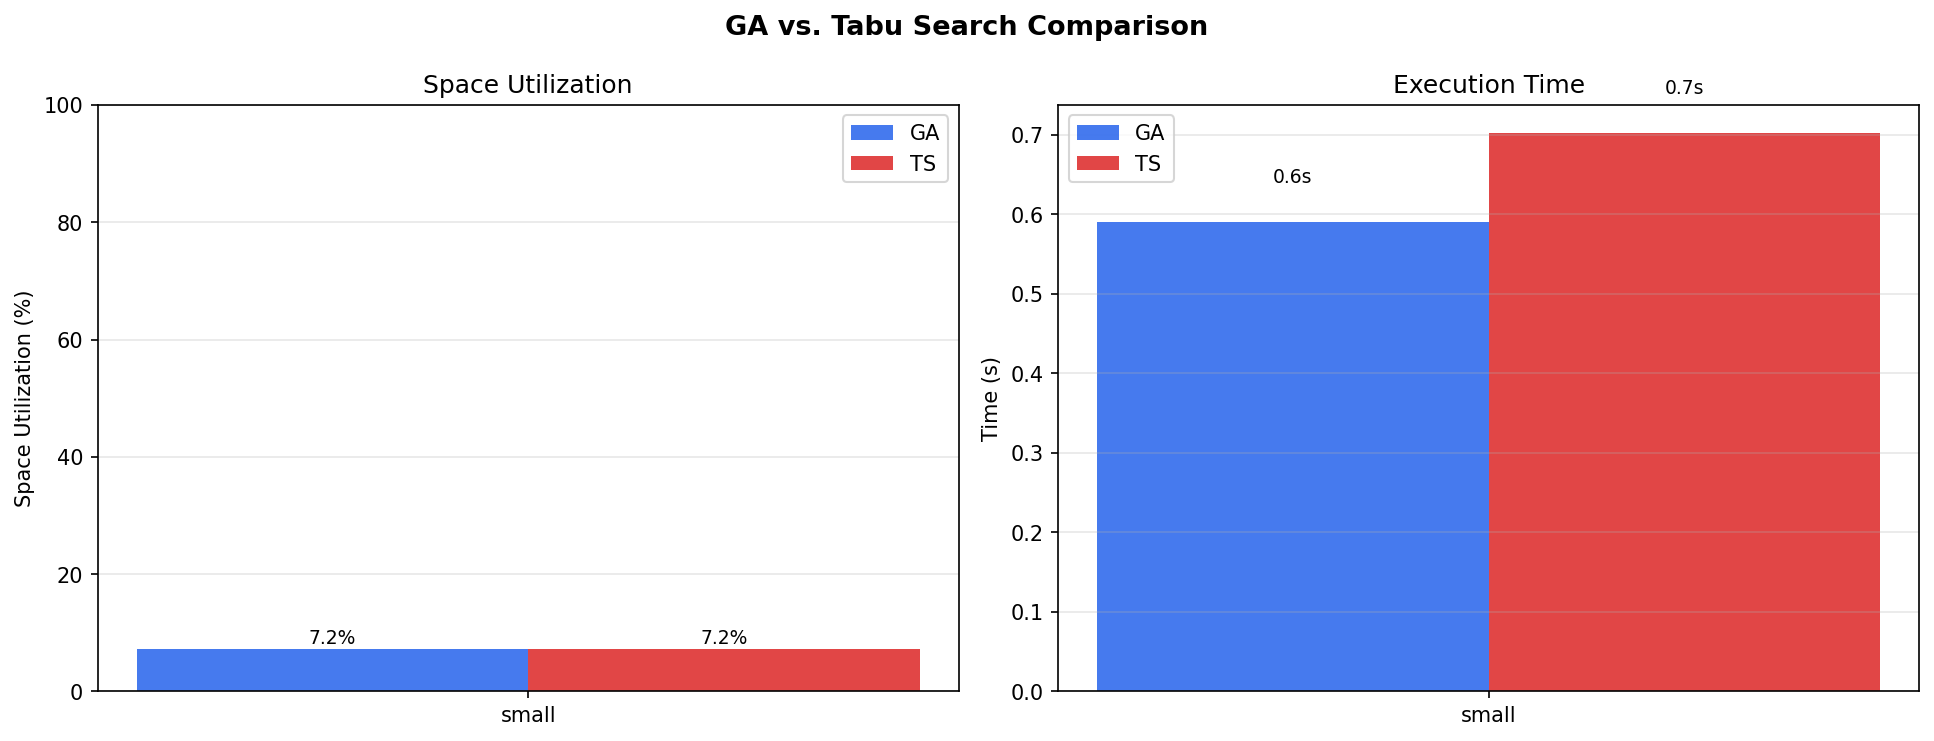
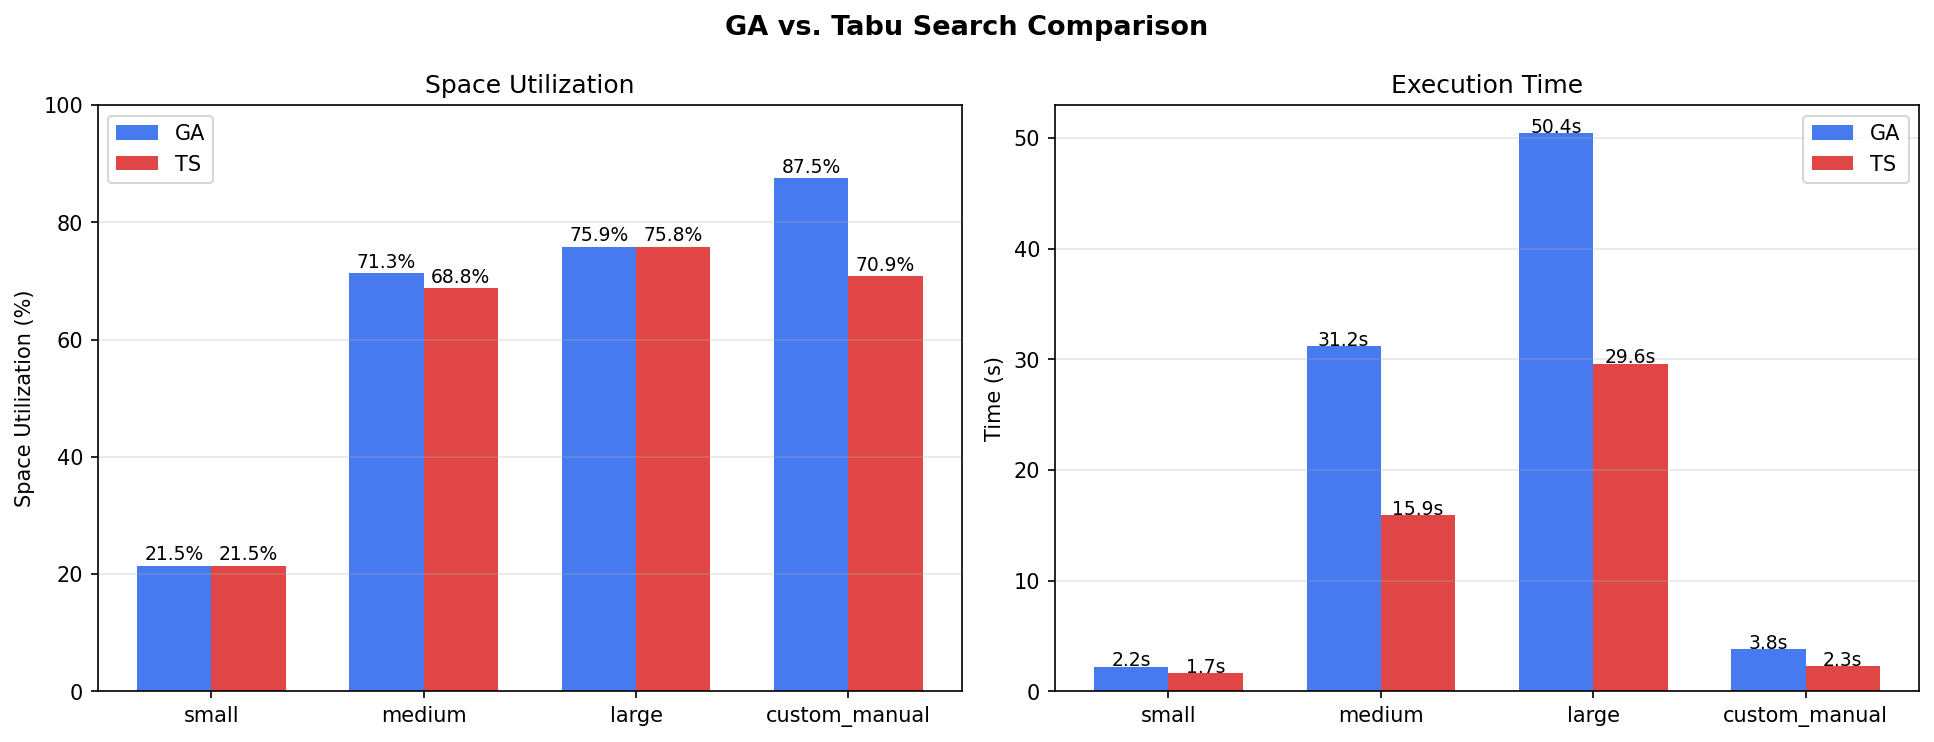
Modificari finale

diff --git a/main.py b/main.py
@@ -5,61 +5,72 @@ from tabu_search import tabu_search
 from feasibility import check_feasibility, print_feasibility_report
 from visualizer import plot_solution_3d, plot_convergence, plot_comparison_bars
 
-def main():
-    dataset_name = "small"
+DATASETS_TO_RUN = ["small", "medium", "large", "custom_manual"]
+
+def run_dataset(dataset_name: str) -> dict:
     boxes = DATASETS[dataset_name]
-    
-    print(f"=== Starting Evaluation for Dataset: {dataset_name} ===")
+    print(f"\n{'='*50}")
+    print(f"=== Dataset: {dataset_name} ({len(boxes)} cutii) ===")
+    print(f"{'='*50}")
 
     print("\n[1] Running Genetic Algorithm (GA)...")
     ga_start = time.time()
     ga_solution, ga_history = genetic_algorithm(
-        boxes=boxes, 
-        container=CONTAINER, 
-        pop_size=40,          
-        n_generations=50,
+        boxes=boxes,
+        container=CONTAINER,
+        pop_size=80,
+        n_generations=150,
         verbose=True
     )
     ga_duration = time.time() - ga_start
-    
+
     ga_report = check_feasibility(ga_solution.placements, boxes, CONTAINER)
     print_feasibility_report(ga_report)
 
     print("\n[2] Running Tabu Search (TS)...")
     ts_start = time.time()
     ts_solution, ts_history = tabu_search(
-        boxes=boxes, 
-        container=CONTAINER, 
-        n_iterations=80,      
+        boxes=boxes,
+        container=CONTAINER,
+        n_iterations=300,
         verbose=True
     )
     ts_duration = time.time() - ts_start
-    
+
     ts_report = check_feasibility(ts_solution.placements, boxes, CONTAINER)
     print_feasibility_report(ts_report)
 
-    print("\n=> Displaying 3D Container Plot...")
-    plot_solution_3d(ga_solution.placements, CONTAINER, title=f"GA Solution (Dataset: {dataset_name})")
+    print(f"\n=> Displaying 3D Container Plot for {dataset_name}...")
+    plot_solution_3d(
+        ga_solution.placements, CONTAINER,
+        title=f"GA Solution (Dataset: {dataset_name})",
+        save_path=f"plot3d_{dataset_name}.png"
+    )
 
-    performance_results = {
-        dataset_name: {
-            "n_boxes": len(boxes),
-            "ga": {
-                "history": ga_history,
-                "space_util": ga_solution.fitness * 100,
-                "time": round(ga_duration, 3)
-            },
-            "ts": {
-                "history": ts_history,
-                "space_util": ts_solution.fitness * 100,
-                "time": round(ts_duration, 3)
-            }
+    return {
+        "n_boxes": len(boxes),
+        "ga": {
+            "history":    ga_history,
+            "space_util": ga_solution.fitness * 100,
+            "time":       round(ga_duration, 3)
+        },
+        "ts": {
+            "history":    ts_history,
+            "space_util": ts_solution.fitness * 100,
+            "time":       round(ts_duration, 3)
         }
     }
-    
+
+
+def main():
+    performance_results = {}
+
+    for dataset_name in DATASETS_TO_RUN:
+        performance_results[dataset_name] = run_dataset(dataset_name)
+
     print("\n=> Displaying Convergence Plot...")
     plot_convergence(performance_results)
-    
+
     print("\n=> Displaying Metric Comparison Bars...")
     plot_comparison_bars(performance_results)
 

diff --git a/data_generator.py b/data_generator.py
@@ -34,18 +34,25 @@ def print_dataset_summary(name: str, boxes: List[Box], container: Container) -> 
 CONTAINER = Container(W=200, H=50, D=50)
 
 DATASETS = {
-    "small":        generate_dataset(CONTAINER, n_boxes=10, seed=1),
-    "medium":       generate_dataset(CONTAINER, n_boxes=20, seed=2),
-    "large":        generate_dataset(CONTAINER, n_boxes=35, seed=3),
-    "fixed_orient": generate_dataset(CONTAINER, n_boxes=15, seed=4, fixed_orientations=True),
-    
-    "custom_auto":  generate_dataset(CONTAINER, n_boxes=50, min_frac=0.05, max_frac=0.25, seed=99),
-    
+    "small":  generate_dataset(CONTAINER, n_boxes=10, min_frac=0.15, max_frac=0.45, seed=1),
+    "medium": generate_dataset(CONTAINER, n_boxes=40, min_frac=0.15, max_frac=0.45, seed=2),
+    "large":  generate_dataset(CONTAINER, n_boxes=60, min_frac=0.15, max_frac=0.45, seed=3),
     "custom_manual": [
-        Box(id=0, w=30, h=20, d=15),
-        Box(id=1, w=10, h=10, d=10),
-        Box(id=2, w=50, h=5,  d=40),
-        Box(id=3, w=20, h=20, d=20)
+        Box(id=0,  w=60, h=30, d=25),
+        Box(id=1,  w=50, h=40, d=30),
+        Box(id=2,  w=70, h=25, d=20),
+        Box(id=3,  w=40, h=40, d=35),
+        Box(id=4,  w=55, h=30, d=25),
+        Box(id=5,  w=45, h=35, d=30),
+        Box(id=6,  w=65, h=20, d=25),
+        Box(id=7,  w=35, h=45, d=30),
+        Box(id=8,  w=50, h=30, d=35),
+        Box(id=9,  w=60, h=25, d=30),
+        Box(id=10, w=40, h=35, d=25),
+        Box(id=11, w=55, h=40, d=20),
+        Box(id=12, w=45, h=30, d=35),
+        Box(id=13, w=70, h=20, d=30),
+        Box(id=14, w=50, h=35, d=25),
     ],
 }
 
